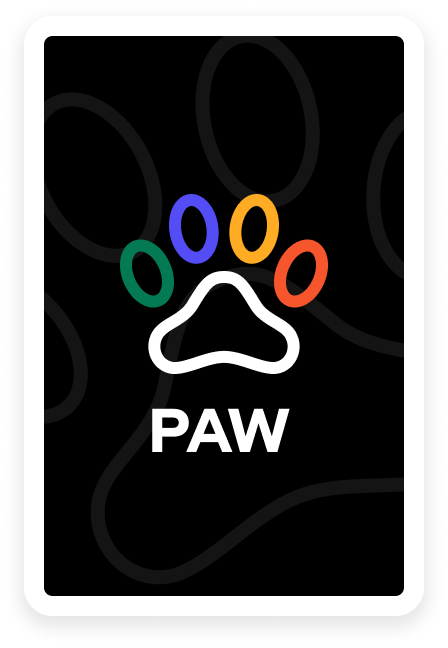
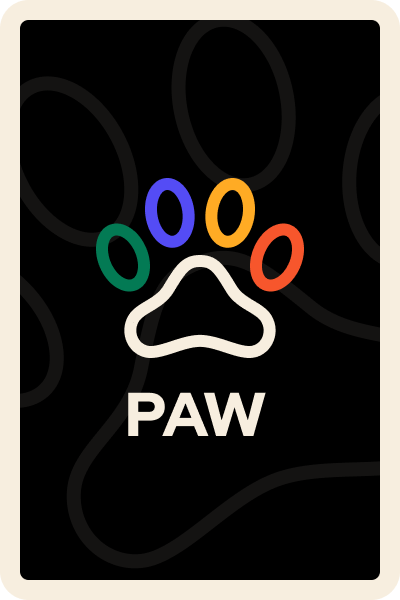
some minor changes of some assets and css

diff --git a/animal-app/src/css/app.css b/animal-app/src/css/app.css
@@ -79,12 +79,12 @@ p {
 }
 
 button {
-  background: white;
-  border: white 2px solid;
+  background: #f7eedf;
+  border: #f7eedf 2px solid;
   border-radius: 5px;
-  color: black;
+  color: #1c1a1b;
   cursor: pointer;
-  font-size: 1rem;
+  font-size: 1.1rem;
   padding: 16px 48px;
   transition: background 0.3s ease;
   /* margin-bottom: 16px; */
@@ -99,13 +99,13 @@ button:hover {
   background: none;
 font-weight: bolder;
 transform: scale(1.05);
-  border: white 2px solid;
-  color: white;
+  border: #f7eedf 2px solid;
+  color: #f7eedf;
   transition: background 0.7s ease;
 }
 
 a {
-  font-size: 1.2rem;
+  font-size: 1.1rem;
   margin-bottom: 20px;
   color: #f7eedf;
   text-align: left;

diff --git a/animal-app/src/css/card.css b/animal-app/src/css/card.css
@@ -168,7 +168,7 @@
   border: none;
   border-radius: 5px;
   color: black;
-  background-color: white;
+  background-color: #f7eedf;
   font-size: 16px;
   cursor: pointer;
   transition: background-color 0.3s;
